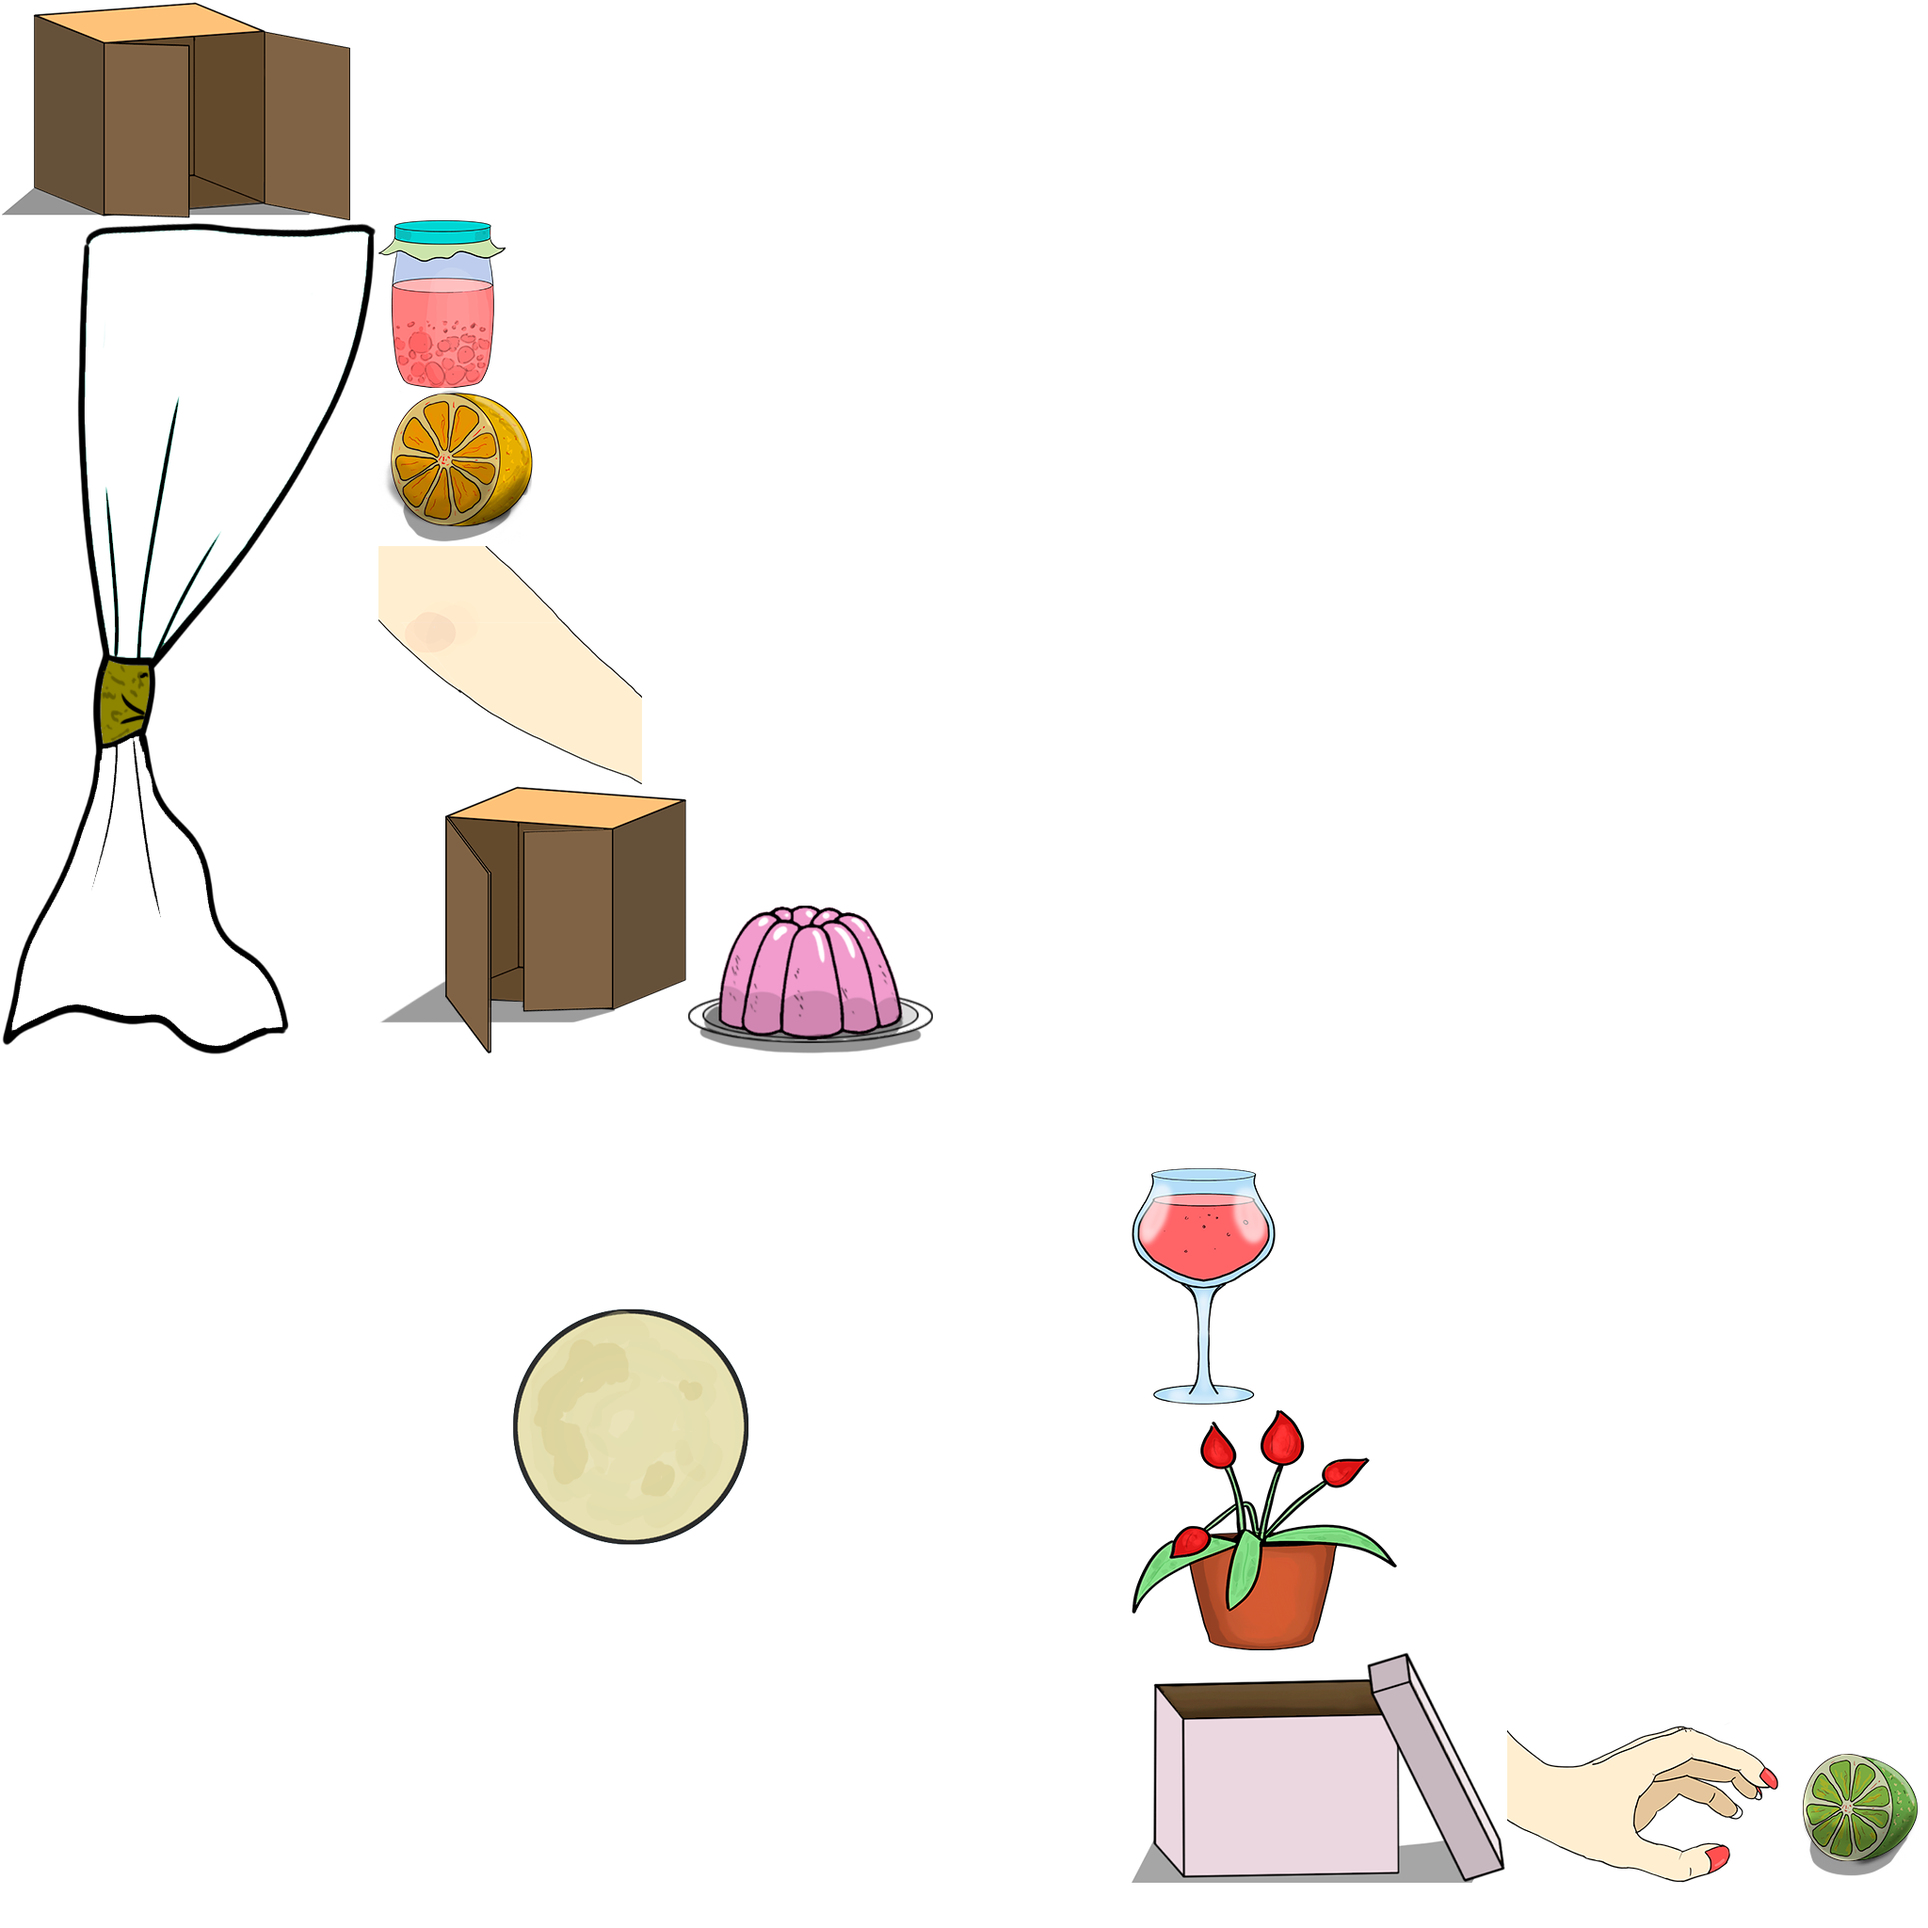
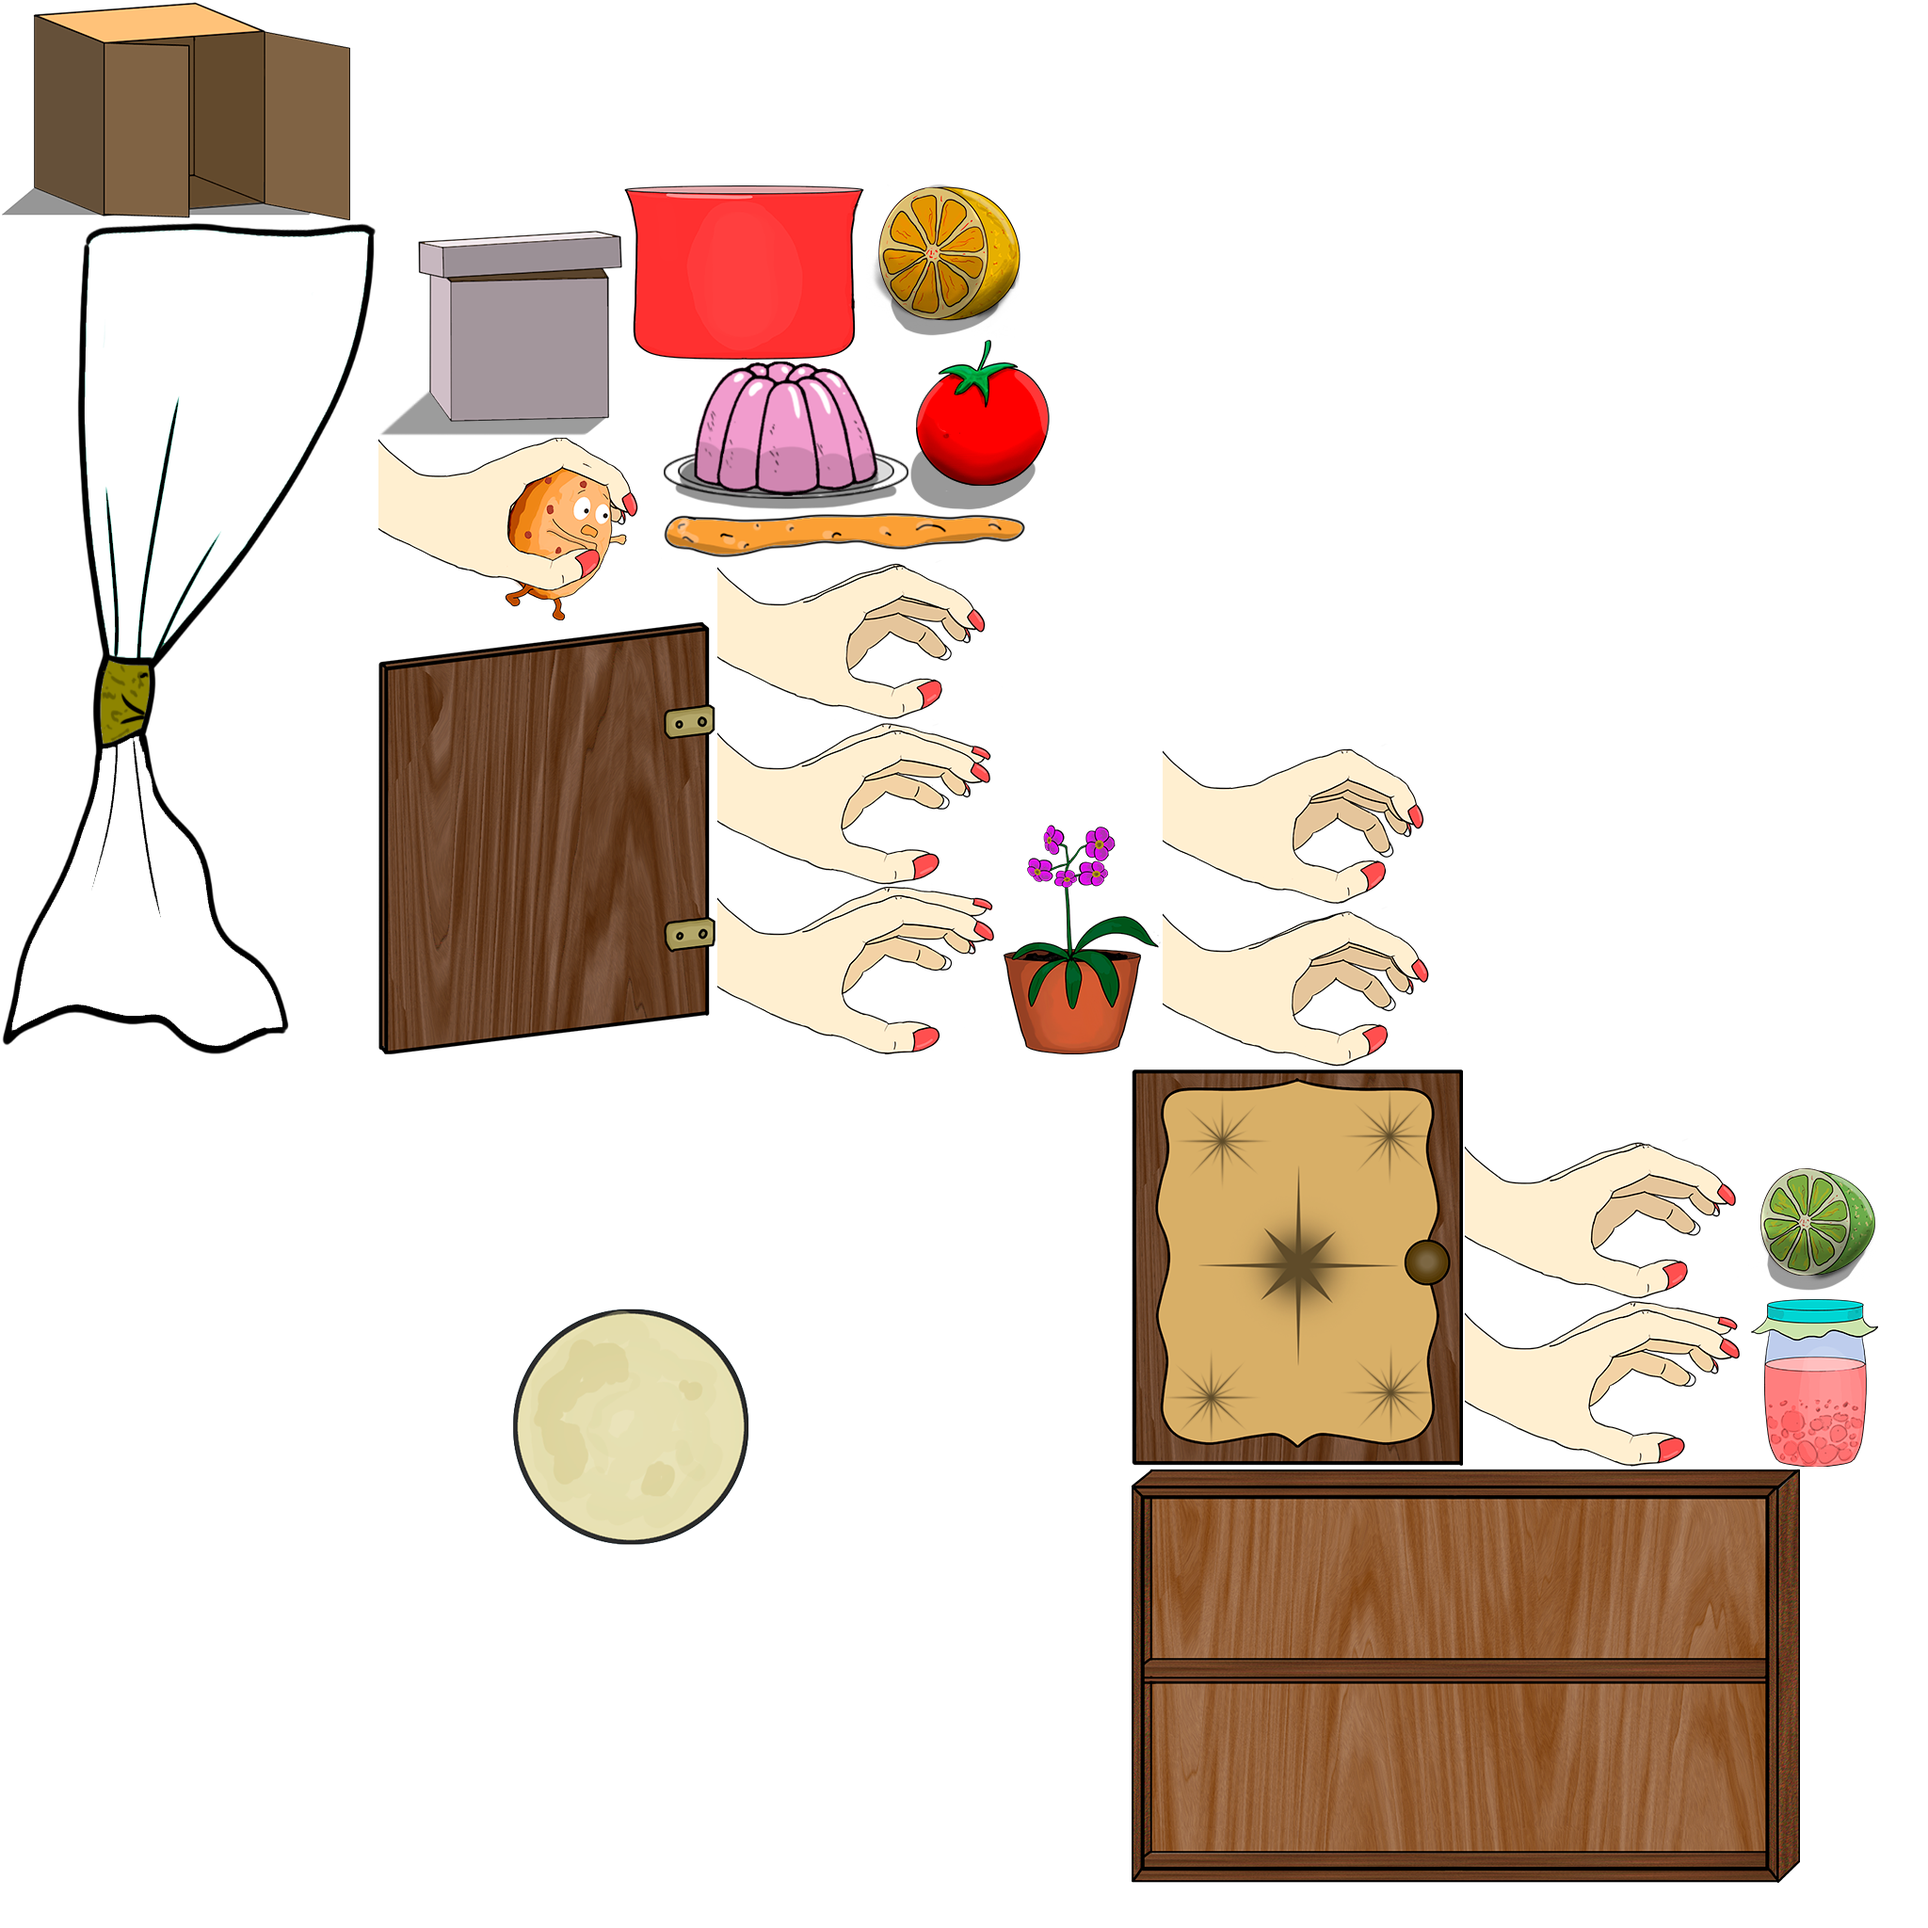
(feature) add cookie shadow

Changed region(s): [[0.1875, 0.0938, 1.0, 1.0]]

diff --git a/core/src/com/mygdx/game/actors/game/Cookie.kt b/core/src/com/mygdx/game/actors/game/Cookie.kt
@@ -15,7 +15,7 @@ import com.mygdx.game.data.Descriptors
 import com.mygdx.game.managers.AudioManager
 
 class Cookie(private val manager : AssetManager,
-             private val startY: Float,
+             val startY: Float,
              private val startX: Float): GameActor(), Scrollable, Physical, Animated{
 
     private val position = Vector2(startX, startY)
@@ -47,7 +47,9 @@ class Cookie(private val manager : AssetManager,
     private var jumpFlag = false
     var isHide = false
     private var startJumpY = 0f
-    private var ground = startY
+
+    var ground = startY
+    private set
 
     private var isStartingAnimation = true
 
@@ -100,10 +102,10 @@ class Cookie(private val manager : AssetManager,
         state = State.RUN
         runTime = 0f
         velocity.y = 0f
-        position.y = ground
+        position.y = startY
     }
 
-    private fun isGround() = position.y <= ground
+    private fun isGround() = position.y <= startY
     private fun isMaxJump() = position.y >= startJumpY + maxJumpHeight
     private fun isCeiling() = position.y >= maxJumpHeight
 
@@ -167,23 +169,21 @@ class Cookie(private val manager : AssetManager,
                  setAgainstTheObject(obj)
             }
         }
-        if(isAfter(obj) && state == State.RUN){
+        if(isAfterObject(obj) && state == State.RUN){
             state = State.FALL
             fastMove()
+        }
+
+        if(isAboveObject(obj)){
+            ground = getTop(obj)
+        } else if(isAfterObject(obj)){
+            ground = startY
         }
     }
 
     private fun isForward(obj : RandomTableItem) = x < obj.getBoundsRect().x + 10
+    private fun isHigherThen(obj : RandomTableItem) = y > obj.top - 30
 
-    private fun isAfter(obj : RandomTableItem) : Boolean{
-        val tailObj = obj.getBoundsRect().x + obj.getBoundsRect().width
-        return x >= tailObj && x < tailObj + 30f
-    }
-
-    private fun isHigherThen(obj : RandomTableItem): Boolean{
-        val top = obj.getBoundsRect().y + obj.getBoundsRect().height
-        return y > top - 30
-    }
     private fun setOnTop(obj : RandomTableItem) {
         resetState()
         when(obj.structure) {

diff --git a/core/src/com/mygdx/game/actors/game/CookieShadow.kt b/core/src/com/mygdx/game/actors/game/CookieShadow.kt
@@ -1,0 +1,54 @@
+package com.mygdx.game.actors.game
+
+import com.badlogic.gdx.assets.AssetManager
+import com.badlogic.gdx.graphics.g2d.Batch
+import com.mygdx.game.api.GameActor
+import com.mygdx.game.data.Assets
+import com.mygdx.game.data.Descriptors
+
+class CookieShadow(manager : AssetManager,
+                   private val cookie: Cookie): GameActor() {
+
+    private val texture = manager.get(Descriptors.environment)
+    private val region = texture.findRegion(Assets.EnvironmentAtlas.CIRCLE_SHADOW)
+    private val origWidth = region.originalWidth.toFloat()
+    private val origHeight = region.originalHeight.toFloat()
+    private var peak = cookie.ground
+    private var isDraw = true
+
+    init {
+        width = origWidth
+        height = origHeight
+    }
+
+    override fun act(delta: Float) {
+        super.act(delta)
+        calculateShadowSize()
+    }
+
+    private fun calculateShadowSize(){
+        val widthChange = 1f
+        val heightChange = 0.4f
+        isDraw = true
+        if(cookie.y > peak){
+            peak = cookie.y
+            width -= widthChange
+            height -= heightChange
+        } else if(cookie.isFalling()){
+            width += widthChange
+            height += heightChange
+        } else if(cookie.isRun() && cookie.y == cookie.startY){
+            if(cookie.y <= cookie.ground) peak = cookie.ground
+            width = origWidth
+            height = origHeight
+        } else {
+            isDraw = false
+        }
+    }
+
+    override fun draw(batch: Batch?, parentAlpha: Float) {
+        val x = cookie.x
+        val y = cookie.startY - 20
+        if(isDraw) batch!!.draw(region, x, y, x, y,  width, height, scaleX, scaleY, rotation)
+    }
+}

diff --git a/core/src/com/mygdx/game/api/Physical.kt b/core/src/com/mygdx/game/api/Physical.kt
@@ -5,6 +5,7 @@ import com.badlogic.gdx.graphics.g2d.Batch
 import com.badlogic.gdx.math.Intersector
 import com.badlogic.gdx.math.Rectangle
 import com.badlogic.gdx.scenes.scene2d.Actor
+import com.mygdx.game.actors.game.RandomTableItem
 import com.mygdx.game.data.Assets
 import com.mygdx.game.data.Descriptors
 
@@ -25,5 +26,26 @@ interface Physical{
         val bound = getBoundsRect()
         val region = texture.findRegion(Assets.EnvironmentAtlas.SHADOW)
         batch?.draw(region, bound.x, bound.y, bound.width, bound.height)
+    }
+
+    fun  <T> isAboveObject(actor : T): Boolean where T : Actor, T : Physical{
+        val actorBound = actor.getBoundsRect()
+        val bound = getBoundsRect()
+        return bound.y > actorBound.y && bound.x >= actorBound.x && bound.x < actorBound.x + actorBound.width
+    }
+
+    fun  <T> isAfterObject(actor : T): Boolean where T : Actor, T : Physical{
+        val tailObj = actor.getBoundsRect().x + actor.getBoundsRect().width
+        return getBoundsRect().x >= tailObj && getBoundsRect().x < tailObj + 30f
+    }
+
+    fun  <T> getTop(actor : T): Float where T : Actor, T : Physical{
+        val actorBound = actor.getBoundsRect()
+        return actorBound.y + actorBound.height
+    }
+
+    fun  <T> getRight(actor : T): Float where T : Actor, T : Physical{
+        val actorBound = actor.getBoundsRect()
+        return actorBound.x + actorBound.width
     }
 }

diff --git a/core/src/com/mygdx/game/world/GameWorld.kt b/core/src/com/mygdx/game/world/GameWorld.kt
@@ -34,6 +34,7 @@ class GameWorld(private val manager : AssetManager) {
     private val sky = Sky(manager, window)
     private val flower = FlowerInPot(manager, window)
     private val cookie = Cookie(manager, table.worktopY, Config.WIDTH_GAME/2)
+    private val cookieShadow = CookieShadow(manager, cookie)
     private val shadow = Shadow(manager)
     private val cupboard = Cupboard(manager, window)
     private val score = Score(manager)
@@ -47,7 +48,7 @@ class GameWorld(private val manager : AssetManager) {
     init {
         actors.addAll(background, cupboard, shadow, sky, moon, city, window, flower, table)
         actors.addAll(items.getActors())
-        actors.addAll(cookie, arm, score)
+        actors.addAll(cookieShadow, cookie, arm, score)
 
         addActorsToStage()
         startInitAnimation()

diff --git a/core/src/com/mygdx/game/data/Assets.kt b/core/src/com/mygdx/game/data/Assets.kt
@@ -39,6 +39,7 @@ class Assets {
             const val SALT = "salt"
             const val TABLE = "table"
             const val SHADOW = "shadow"
+            const val CIRCLE_SHADOW = "circle_shadow"
             const val GLASS = "glass"
             const val ORANGE = "orange"
             const val LIME = "lime"
